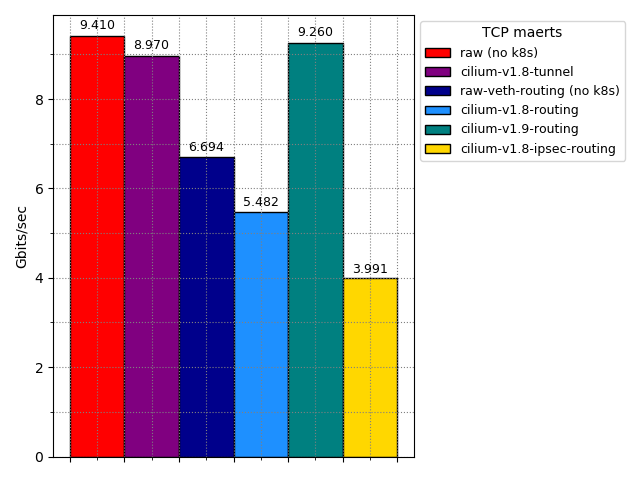
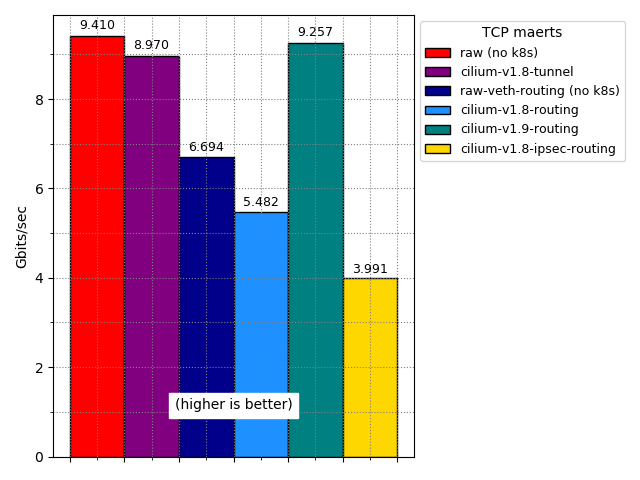
Documentation: performance evaluation improvements
[ upstream commit 23710710174e7065ff1c0d2ed41f3103f0e8cc98 ]

- Add multi-stream results
- Add lower/higher is better labels
- use (lat vs batch) and (tput vs batch) plots for TCP_RR
- improve text

Changed region(s): [[0.25, 0.8125, 0.4688, 0.875], [0.5, 0.0625, 0.5312, 0.0938]]

diff --git a/Documentation/concepts/performance/index.rst b/Documentation/concepts/performance/index.rst
@@ -222,16 +222,39 @@ before setting up Cilium, in which case one would only need the second command.
 Results
 -------
 
-First, we examine bandwidth. The TCP stream (and TCP maerts) benchmark measures the
-maximum bandwidth that can be achieved by a client sending data to a server (and
-vice-versa). ``raw`` is the performance achieved by running the server and the
-client directly on the host, while ``cilium-v1.8-routing`` and
-``cilium-v1.8-tunnel`` show the pod-to-pod performance under different Cilium
-configurations. In all cases, the client and the server reside on different
-machines.
-
 Bandwidth
 ---------
+
+First, we examine bandwidth.  We start with evaluating the **maximum achievable
+transfer rate**. We do this by running multiple (16, equal to the number of
+available CPU threads on our machines) TCP streams and measure their aggregate
+throughput.  We use two netperf benchmarks: ``stream``, which sends data from
+the client to the server; and ``maerts``, which sends data from the server to
+the client.
+
+
+Results are presented below.  The bar labeled
+``raw`` shows the performance achieved by running the server and the client
+directly on the host. Bars ``cilium-v1.8-tunnel`` and ``cilium-v1.8-routing``
+show the performance of pod-to-pod communication when using Cilium in tunneling
+(VXLAN) and native-routing modes, respectively. Finally, encryption performance
+is shown in ``cilium-v1.8-ipsec-routing``.
+
+Non-encryption configurations perform very close to the limits of the system
+(raw). Tunneling does not perform as well as native routing, though, which we
+attribute to the overhead of UDP encapsulation.
+
+.. figure:: images/tcp_stream-16.png
+  :width: 450
+  :alt: TCP stream (16 streams)
+
+.. figure:: images/tcp_maerts-16.png
+  :width: 450
+  :alt: TCP maerts (16 streams)
+
+Next, we repeat the same experiments using a **single TCP stream** and present
+the results below.
+
 
 .. figure:: images/tcp_stream.png
   :width: 450
@@ -250,26 +273,26 @@ CNI running. This Cilium-free setup, reported above as ``raw-veth-routing``,
 resulted in a similar performance degradation. Since the same path is used in
 routing mode for Cilium, this explains a substantial part of the performance
 hit. Note that these results and bottlenecks apply to a single TCP stream, that
-is, multiple streams converge close to the NICs line rate.
+is, multiple streams converge close to the NICs line rate as we have
+shown previously.
 
 Given the single stream bottlenecks, we have recently been `working
 <https://lore.kernel.org/bpf/cover.1600967205.git.daniel@iogearbox.net/T/>`_ on
 improving the performance of veth through new eBPF features for the latest Linux
 kernels. Early experiments on our development branch ``cilium-v1.9-routing`` show
-that we were able to overcome these issues in direct routing mode. Additionally,
-optimizations are being worked on to improve performance and latency beyond the
+that we were able to overcome these issues in native routing mode. Additionally,
+optimizations are being worked on to improve performance beyond the
 results shown here.
 
 Using a Larger MTU
 ..................
 
-Bandwidth performance can be improved by increasing the MTU (e.g., to use jumbo
-frames) when this option is available. Our scripts (see
-``playbooks/set-dev-mtu.yaml``) offer examples on how to do this.
+Bandwidth performance can be improved by **increasing the MTU** when possible.
 It is worth noting that while increasing the MTU improves the
 performance of bandwidth benchmarks, it may have detrimental effects on other
-workloads. Results for using an MTU 9K for the same experiments are shown
-below.
+workloads. Results for using an MTU of 9000 (see `our scripts
+<https://github.com/cilium/perfeval/blob/master/playbooks/set-dev-mtu.yaml>`_
+for details) for the same experiments are shown below.
 
 .. figure:: images/tcp_stream-mtu9k.png
   :width: 450
@@ -283,32 +306,33 @@ Request/Reply Messages
 ----------------------
 
 Next, we examine the performance of sending small (1 byte) request and reply
-messages between a client and a server. Even though many studies focus on
-bandwidth measurements, modern applications rely heavily on message passing and
-this benchmark captures their behavior more accurately.
+messages between a client and a server using the same configurations as above.
+Even though many studies focus on bandwidth measurements, modern applications
+rely heavily on message passing and this benchmark captures their behavior more
+accurately.
 
-The first image shows how throughput (in transactions per second) and latency
-(in microseconds) vary as we increase the number of messages in flight
-(burst=0, 1, 2, 4...). As we increase the burst size, throughput increases
-until the system is saturated (this happens close to a burst of 128). At this
-point, throughput remains constant, while latency significantly increases. The
-two subsequent images show throughput and latency results for batch sizes 0 and
-128.
+The first image shows how **throughput** (in transactions per second) varies as
+we increase the number of messages in-flight using the ``burst`` parameter of
+netperf (burst=0, 1, 2, 4,...,512).  Note that a logarithmic scale is used for
+the x-axis.  As in-flight packets increase, throughput also increases until the
+system is saturated.
 
-.. figure:: images/tcp_rr.png
-  :width: 700
-  :alt: TCP RR
 
-.. figure:: images/tcp_rr-qd0.png
-  :width: 450
-  :alt: TCP RR / batch=0
+.. figure:: images/tcp_rr-tput.png
+  :width: 800
+  :alt: TCP RR: throughput
 
-.. figure:: images/tcp_rr-qd128.png
-  :width: 450
-  :alt: TCP RR / batch=128
+The second image shows how median latency is affected in the same experiment.
+(Note that in this case, lower is better.)
 
-One thing to note is that routing mode results in significantly lower latency
-for small batch sizes compared to tunneling.
+.. figure:: images/tcp_rr-lat.png
+  :width: 800
+  :alt: TCP RR: latency
+
+In general, Cilium performs close in terms of both latency and throughput to
+raw. (The initial latency spike on tunneling configuration is consistent
+across different measurements, and we are currently investigating its
+causes.)
 
 ------
 Tuning
